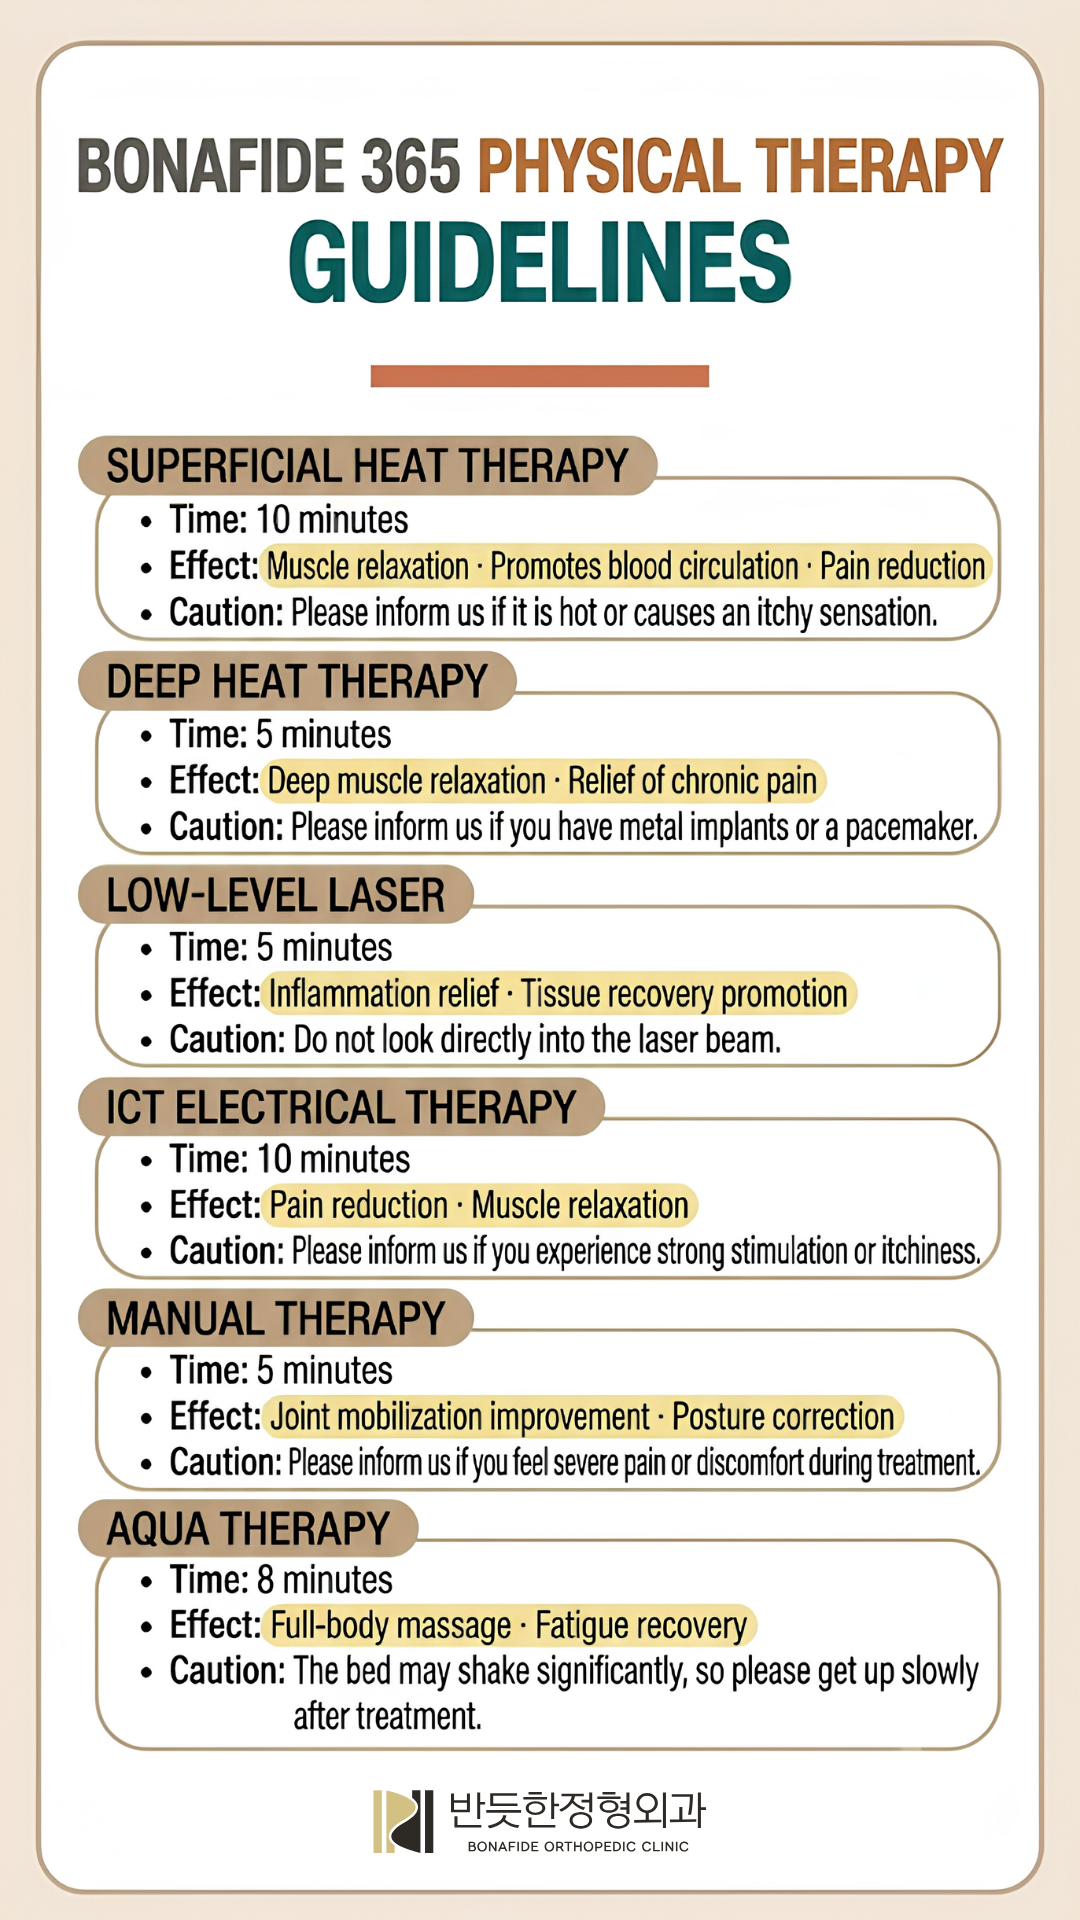
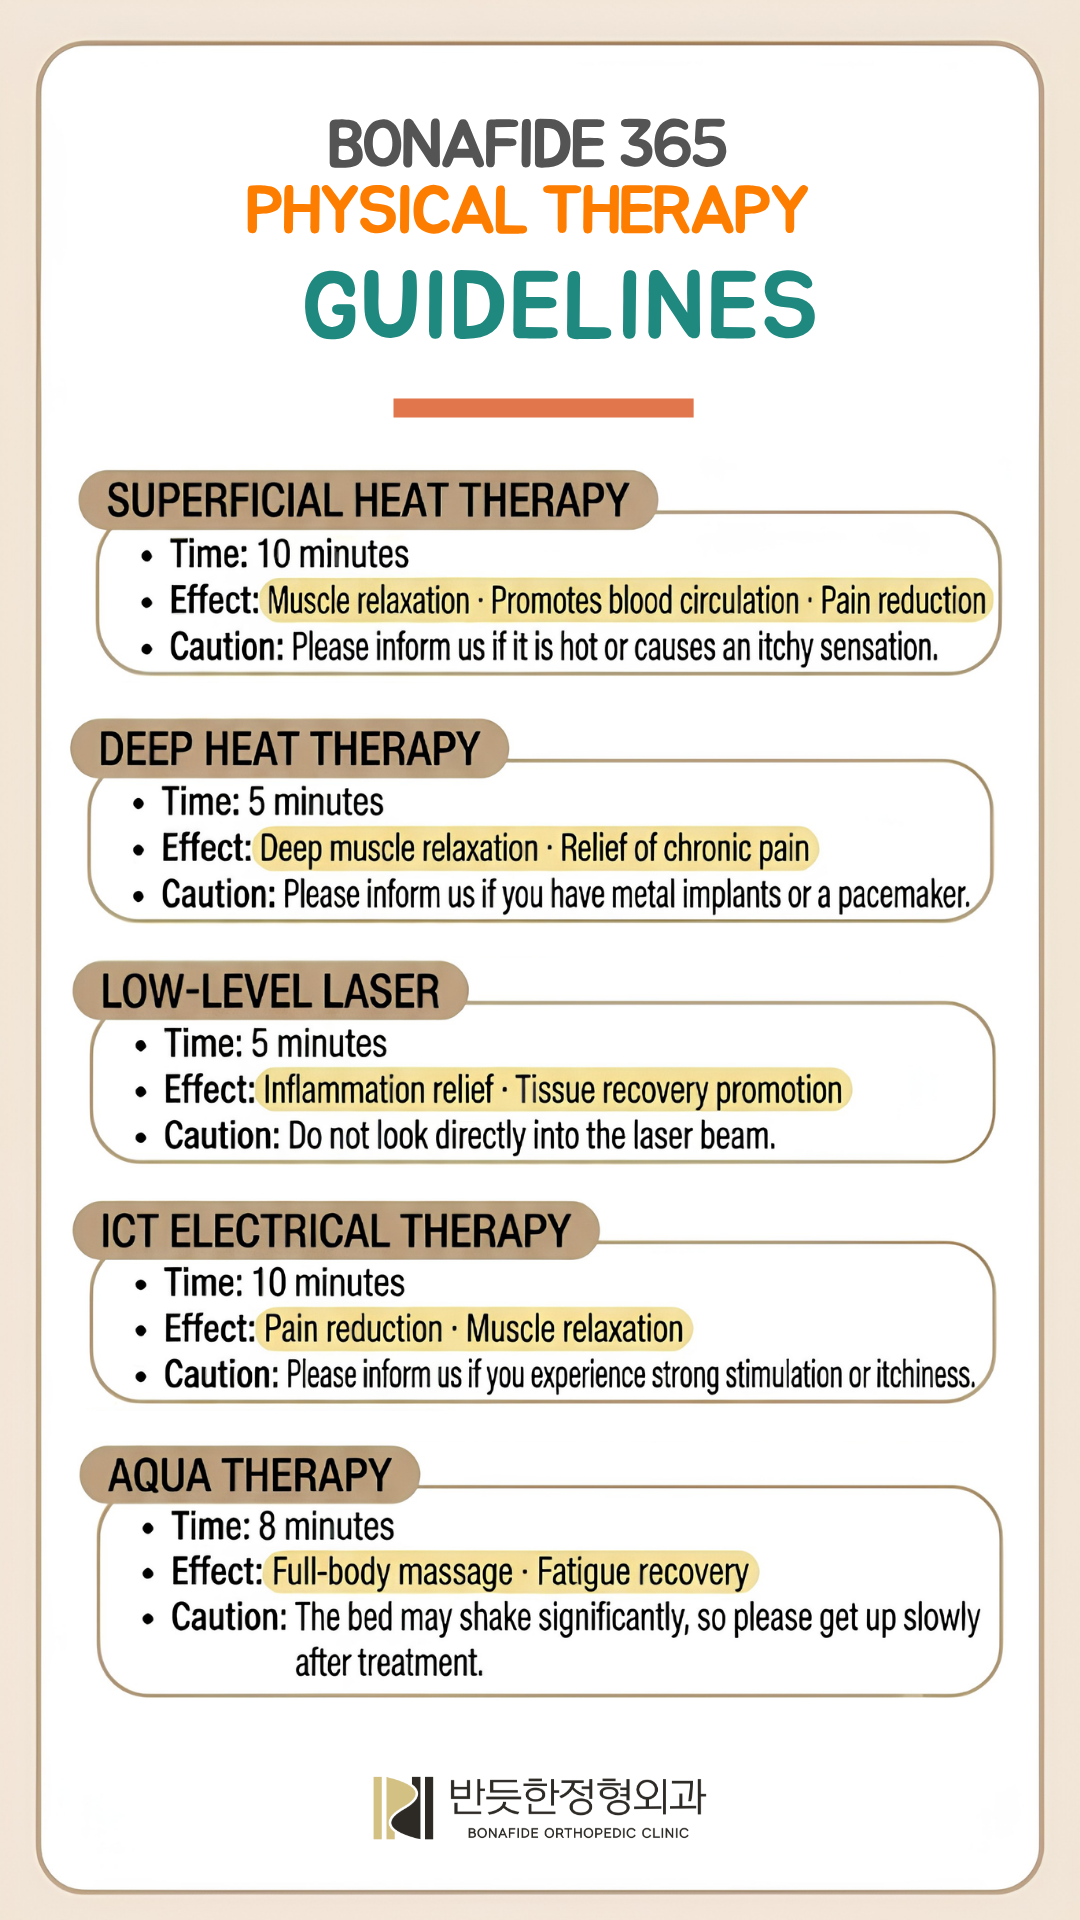
feat: cryo·충격파 영어 배너 + 기본물리치료 배너 교체 및 캐시 무력화
- cryo, 충격파: 영어판 배너만 교체 (한글판은 원본 유지)
- 기본물리치료 1·2: 한/영 배너 교체, 영어 파일명 규칙에 맞게 정리
- i18n: 배너 로딩에 BANNER_VER 캐시 무력화 쿼리 추가

diff --git a/js/i18n.js b/js/i18n.js
@@ -4,6 +4,9 @@
    - 언어 설정 저장(localStorage) 및 적용
    ───────────────────────────────────────────── */
 
+/* 배너 캐시 버전: 배너 이미지를 같은 파일명으로 교체할 때마다 이 값을 올린다. */
+const BANNER_VER = '20260704';
+
 const translationMap = {
   ko: {
     '손상단계별 치료안내 ▾': '손상단계별 치료안내 ▾',
@@ -79,12 +82,13 @@ function applyLanguage(lang = getPreferredLanguage()){
     btn.classList.toggle('active', btn.getAttribute('data-lang') === currentLang);
   });
 
-  /* 섹션 배너(스트레칭/위생교육) + 헤더 배너: 영어 모드면 en/<배너> 시도, 파일 없으면 한국어 배너로 자동 대체 */
+  /* 섹션 배너(스트레칭/위생교육) + 헤더 배너: 영어 모드면 en/<배너> 시도, 파일 없으면 한국어 배너로 자동 대체.
+     배너 파일명이 그대로 교체되는 경우가 많아, 버전 쿼리로 브라우저 캐시를 무력화한다. (교체 시 BANNER_VER 갱신) */
   document.querySelectorAll('.header-banner, .stretch-banner').forEach(img => {
     const koBanner = img.getAttribute('data-img');
     if (!koBanner) return;
-    img.onerror = function(){ this.onerror = null; this.src = koBanner; };
-    img.src = (currentLang === 'en') ? 'en/' + koBanner : koBanner;
+    img.onerror = function(){ this.onerror = null; this.src = koBanner + '?v=' + BANNER_VER; };
+    img.src = ((currentLang === 'en') ? 'en/' + koBanner : koBanner) + '?v=' + BANNER_VER;
   });
 
   const footerTitle = document.querySelector('footer p[data-i18n="footer-title"]');
